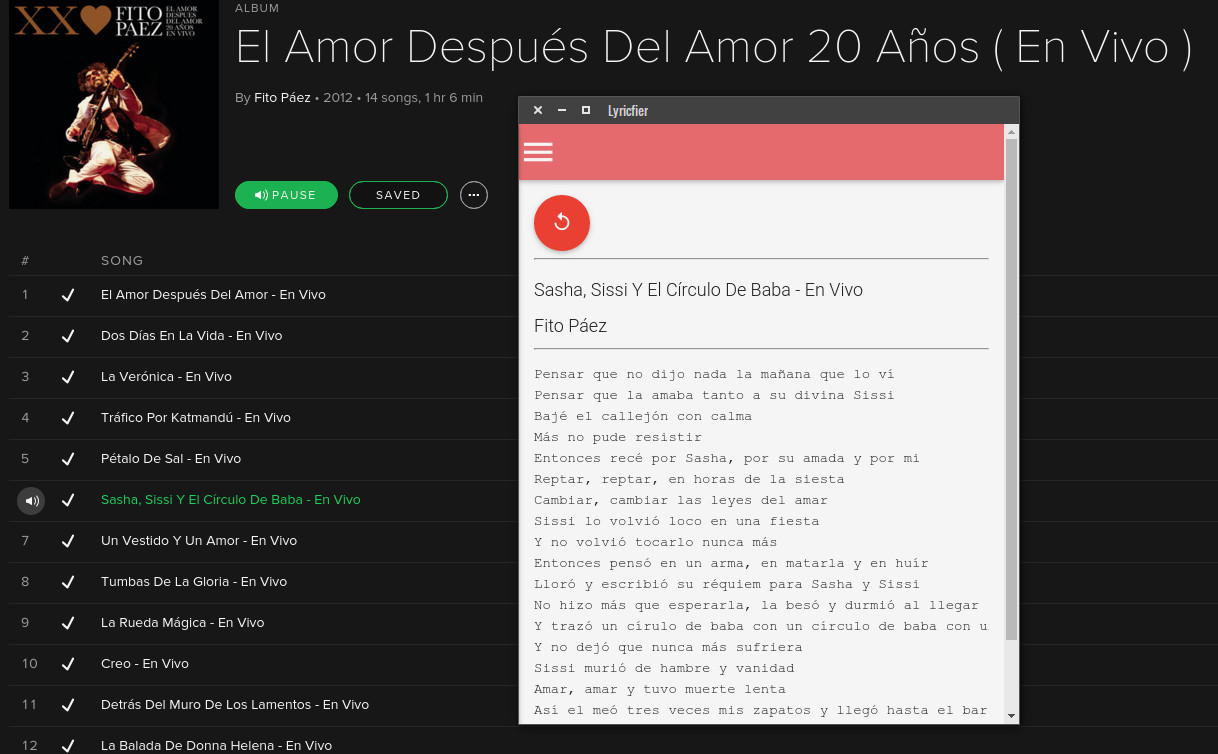
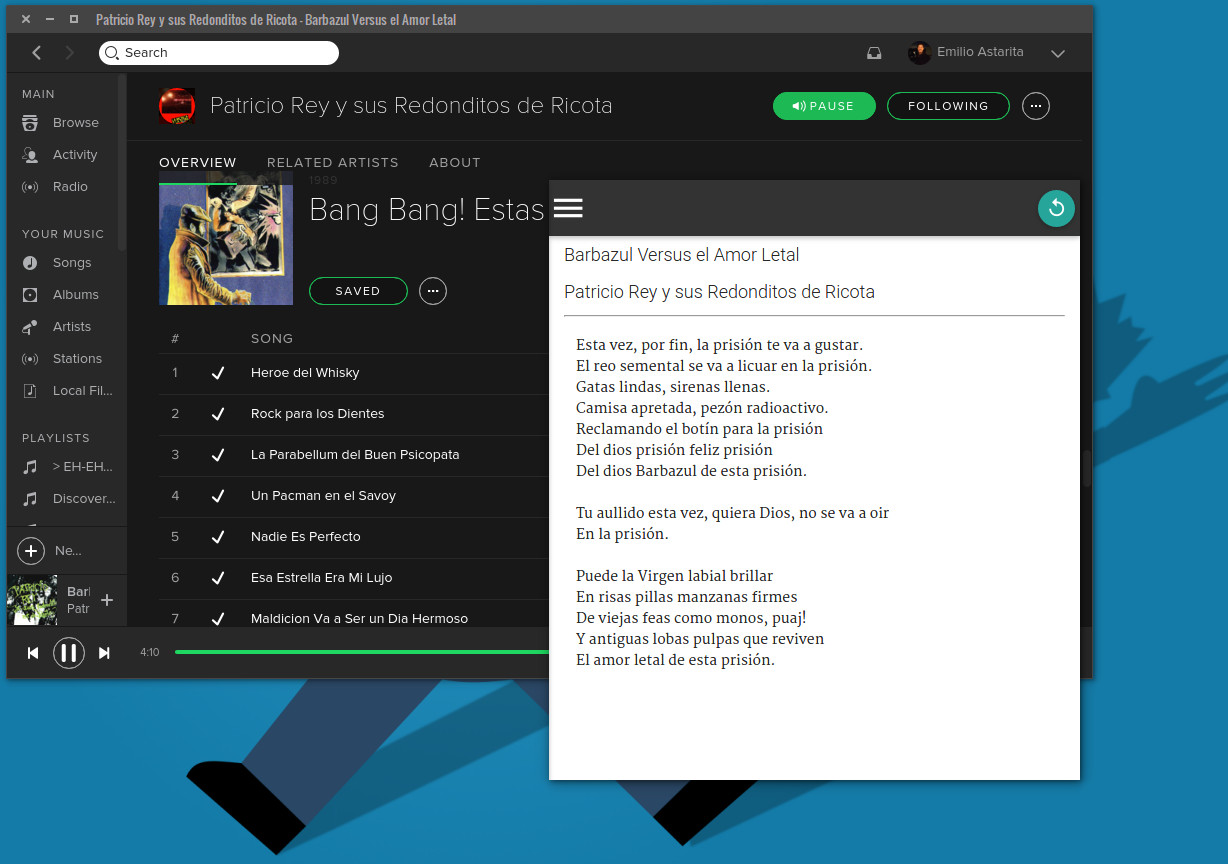
Updated screenshot.

diff --git a/render/LyricfierRender.ts b/render/LyricfierRender.ts
@@ -14,18 +14,22 @@ import {SongRender} from './SongRender';
     template: `
       <style>
         body {
-            background-color: #eee;
+            background-color: #fff;
         }
         .main-view {
-            padding: 0px 15px;            
+            padding: 5px 15px;
+            margin-top: 40px;
         } 
         nav {
+            top: 0;
+            position: fixed;
             background-color: #333;
             -webkit-app-region: drag;
         }
         a, ul.side-nav, ul.side-nav li {
             -webkit-app-region: no-drag;
         }
+        
       </style>
       <nav>
             <div class="nav-wrapper ">
